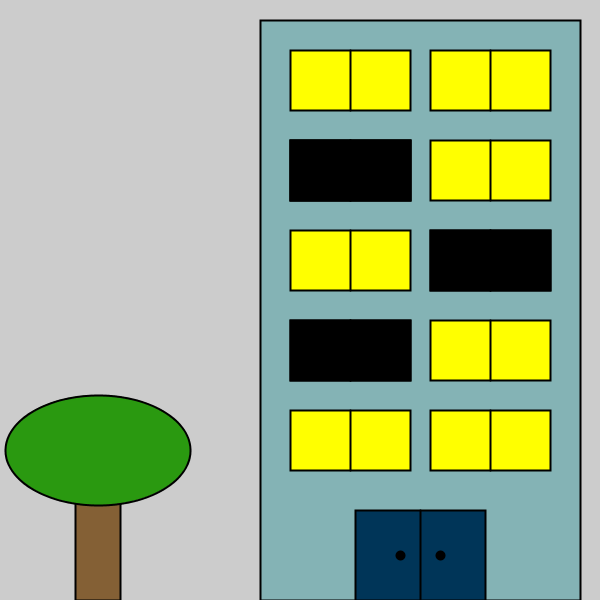
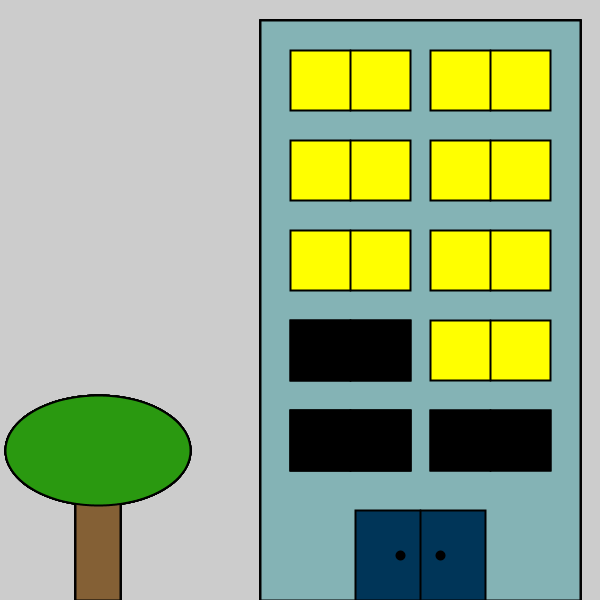
Atualizando

Changed region(s): [[0.48, 0.66, 0.93, 0.81], [0.69, 0.36, 0.93, 0.51], [0.48, 0.21, 0.69, 0.36]]

diff --git a/README.md b/README.md
@@ -1,2 +1,6 @@
-# AlgorithmsProcessing
-The set of algorithms created during the discipline of Computer Graphics on Processing
+# Algoritimos Processing
+	O conjunto de algoritmos criados durante a disciplina de Computação Gráfica no Processamento
+	
+## Building
+
+	Escreva um programa que visualiza um prédio com 10 janelas (três fechadas), uma porta dupla fechada com duas maçanetas, e uma árvore ao lado do prédio. E que grava automaticamente o resultado no formato (.png).	
